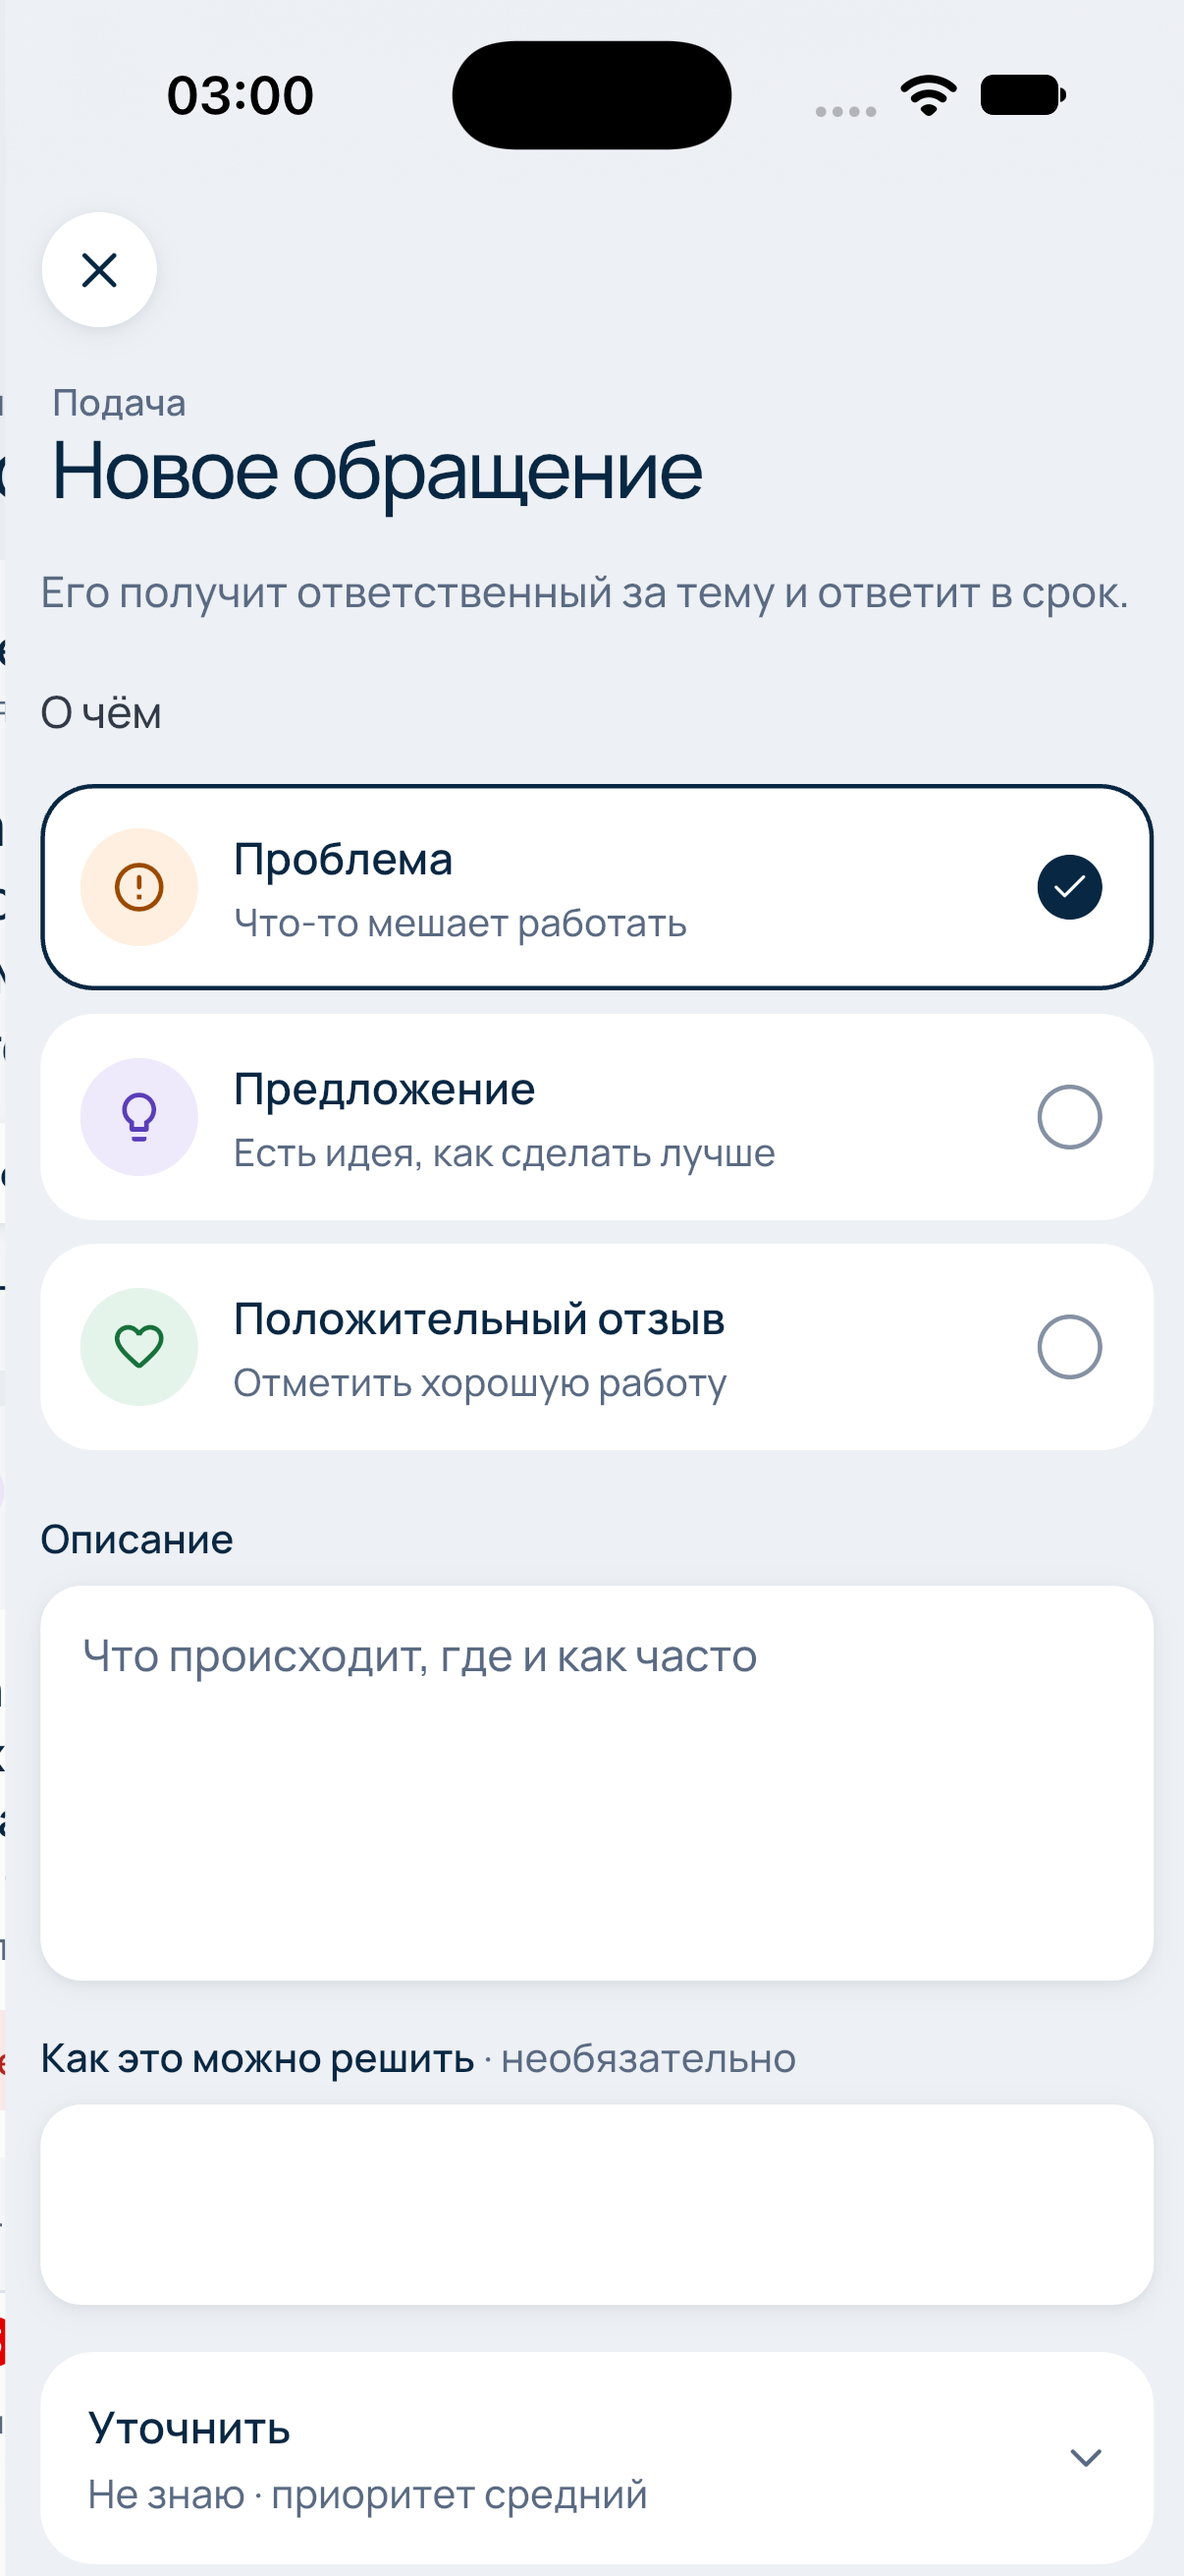
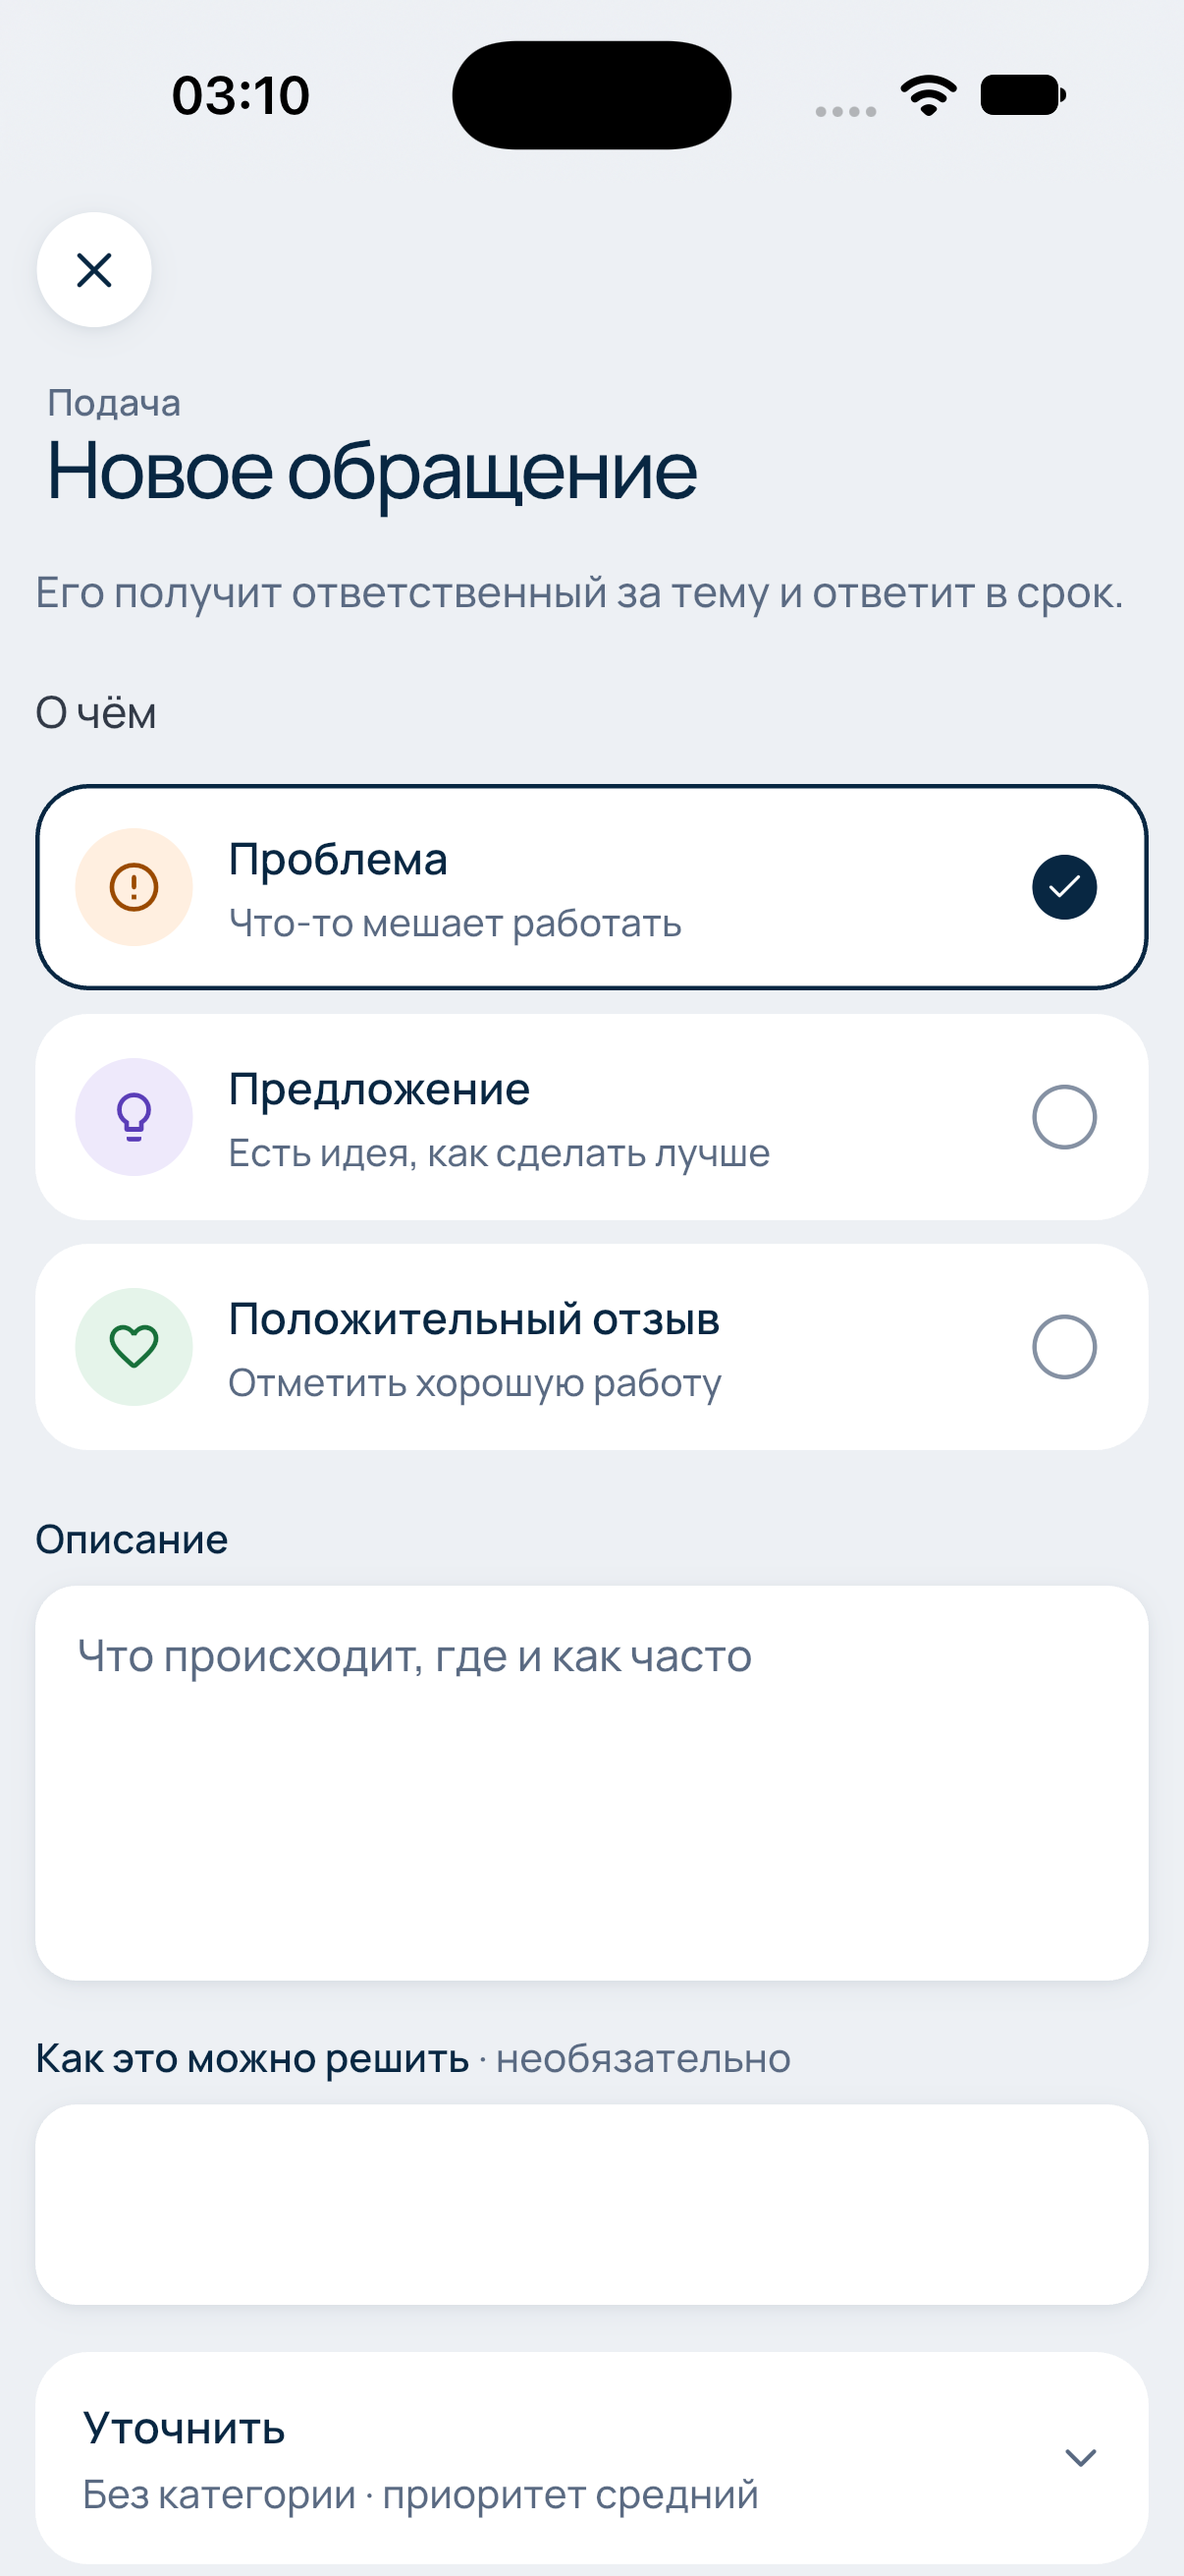
F-19: «Лента» карточками + замечания ревью к F-18 (#254)
* F-18: UX-проход — одно главное действие, лишнее под «⋯», значения по умолчанию свёрнуты

Подача: тип карточками, описание первым, категория и приоритет под «Уточнить», скрепка и «Отправить».
Мои/Входящие/Профиль/Настройки — общая стеклянная шапка; срок в строке только когда важен.
Черновики собраний и заявки на доступ: одна главная кнопка, остальное — «⋯» и свёрнутые поля.
Битрикс24 — в «Ещё» карточки; вкладки — сегментами. Правила: flutter/docs/ux-rules.md.

* F-19: «Лента» карточками; срок во «Входящих» только когда важен; проверка неактивной «Подтвердить»

---------

diff --git a/flutter/lib/ui/discussions/feed_screen.dart b/flutter/lib/ui/discussions/feed_screen.dart
@@ -1,12 +1,13 @@
 import 'package:flutter/material.dart';
+import 'package:lucide_icons_flutter/lucide_icons.dart';
 import 'package:modus_api/api.dart';
 
 import '../../api/app_error.dart';
 import '../../app.dart';
 import '../../theme/modus_theme.dart';
 import '../../format.dart';
-import '../appeals/duplicates_bitrix.dart' show plural;
 import 'discussion_screen.dart';
+import '../web/web_ui.dart';
 import '../home/role_switch.dart';
 
 /// Общая лента для всех: открытые обсуждения, реализованные улучшения, завершённые обсуждения
@@ -122,8 +123,9 @@ class DiscussionList extends StatelessWidget {
       },
       empty: status == DiscussionStatus.open ? 'Сейчас нет открытых обсуждений.' : 'Завершённых обсуждений пока нет.',
       builder: (context, items, reload) => ListView.separated(
+        padding: const EdgeInsets.fromLTRB(16, 4, 16, 120),
         itemCount: items.length,
-        separatorBuilder: (_, _) => const Divider(height: 1),
+        separatorBuilder: (_, _) => const SizedBox(height: 10),
         itemBuilder: (context, i) => DiscussionRow(
           discussion: items[i],
           onTap: () async {
@@ -147,39 +149,55 @@ class DiscussionRow extends StatelessWidget {
   Widget build(BuildContext context) {
     final d = discussion;
     final session = SessionScope.of(context);
-    final theme = Theme.of(context);
-    final muted = theme.textTheme.bodySmall?.copyWith(color: theme.colorScheme.onSurfaceVariant);
+    final c = ModusColors.of(context);
     final open = d.status == DiscussionStatus.open;
-    return InkWell(
-      key: Key('discussion-${d.id}'),
-      onTap: onTap,
-      child: Padding(
-        padding: const EdgeInsets.symmetric(horizontal: 16, vertical: 12),
-        child: Column(crossAxisAlignment: CrossAxisAlignment.start, children: [
-          Row(children: [
+    final muted = TextStyle(color: c.muted, fontSize: 13);
+    final waitsVote = open && d.canVote && d.myVote == null;
+    return Material(
+      color: c.card,
+      borderRadius: BorderRadius.circular(Web.rCard),
+      clipBehavior: Clip.antiAlias,
+      child: InkWell(
+        key: Key('discussion-${d.id}'),
+        onTap: onTap,
+        child: Padding(
+          padding: const EdgeInsets.fromLTRB(18, 16, 14, 16),
+          child: Row(children: [
             Expanded(
-              child: Text('${session.typeLabel(d.appeal.type)} · ${d.authorDisplay}',
-                  style: muted, overflow: TextOverflow.ellipsis),
+              child: Column(crossAxisAlignment: CrossAxisAlignment.start, children: [
+                Text(
+                  d.publicText,
+                  maxLines: 3,
+                  overflow: TextOverflow.ellipsis,
+                  style: TextStyle(color: c.heading, fontSize: 15.5, fontWeight: FontWeight.w600, height: 1.4),
+                ),
+                const SizedBox(height: 4),
+                Text(
+                  '${session.typeLabel(d.appeal.type)} · ${d.authorDisplay} · '
+                  '${open ? 'до ${formatDateTime(d.deadline)}' : 'завершено ${d.closedAt != null ? formatDate(d.closedAt!) : ''}'}',
+                  style: muted,
+                ),
+                const SizedBox(height: 10),
+                Wrap(spacing: 14, runSpacing: 6, crossAxisAlignment: WrapCrossAlignment.center, children: [
+                  if (waitsVote)
+                    Text('Ждёт вашего голоса',
+                        style: TextStyle(color: c.accent, fontSize: 13, fontWeight: FontWeight.w600)),
+                  _Count(icon: LucideIcons.thumbsUp, value: d.votesFor, label: 'За'),
+                  _Count(icon: LucideIcons.thumbsDown, value: d.votesAgainst, label: 'Против'),
+                  _Count(icon: LucideIcons.messageCircle, value: d.commentsCount, label: 'Комментарии'),
+                  if (d.myVote != null)
+                    Text('ваш голос: ${d.myVote == VoteValue.for_ ? 'за' : 'против'}', style: muted),
+                ]),
+                if (!open && d.outcome != null) ...[
+                  const SizedBox(height: 8),
+                  Text('Итог: ${d.outcome}', style: TextStyle(color: c.heading, fontSize: 13.5)),
+                ],
+              ]),
             ),
-            Text(
-              open ? 'до ${formatDateTime(d.deadline)}' : 'завершено ${d.closedAt != null ? formatDate(d.closedAt!) : ''}',
-              style: muted,
-            ),
+            const SizedBox(width: 8),
+            Icon(LucideIcons.chevronRight, size: 18, color: c.faint),
           ]),
-          const SizedBox(height: 4),
-          Text(d.publicText, maxLines: 3, overflow: TextOverflow.ellipsis),
-          const SizedBox(height: 8),
-          Wrap(spacing: 12, runSpacing: 4, crossAxisAlignment: WrapCrossAlignment.center, children: [
-            _Count(icon: Icons.thumb_up_alt_outlined, value: d.votesFor, label: 'За'),
-            _Count(icon: Icons.thumb_down_alt_outlined, value: d.votesAgainst, label: 'Против'),
-            Text('${d.commentsCount} ${plural(d.commentsCount, ('комментарий', 'комментария', 'комментариев'))}',
-                style: muted),
-            if (d.myVote != null)
-              Text('вы проголосовали «${d.myVote == VoteValue.for_ ? 'за' : 'против'}»', style: muted),
-          ]),
-          if (!open && d.outcome != null)
-            Padding(padding: const EdgeInsets.only(top: 4), child: Text('Итог: ${d.outcome}', style: muted)),
-        ]),
+        ),
       ),
     );
   }
@@ -196,9 +214,9 @@ class _Count extends StatelessWidget {
   Widget build(BuildContext context) => Semantics(
         label: '$label: $value',
         child: Row(mainAxisSize: MainAxisSize.min, children: [
-          Icon(icon, size: 16),
+          Icon(icon, size: 15, color: ModusColors.of(context).muted),
           const SizedBox(width: 4),
-          Text('$value'),
+          Text('$value', style: TextStyle(color: ModusColors.of(context).heading, fontSize: 13, fontWeight: FontWeight.w600)),
         ]),
       );
 }
@@ -216,8 +234,9 @@ class ImplementedList extends StatelessWidget {
       },
       empty: 'Реализованных улучшений пока нет.',
       builder: (context, items, _) => ListView.separated(
+        padding: const EdgeInsets.fromLTRB(16, 4, 16, 120),
         itemCount: items.length,
-        separatorBuilder: (_, _) => const Divider(height: 1),
+        separatorBuilder: (_, _) => const SizedBox(height: 10),
         itemBuilder: (context, i) => FeedRow(item: items[i]),
       ),
     );
@@ -236,9 +255,10 @@ class FeedRow extends StatelessWidget {
     final theme = Theme.of(context);
     final muted = theme.textTheme.bodySmall?.copyWith(color: theme.colorScheme.onSurfaceVariant);
     final label = theme.textTheme.labelMedium?.copyWith(color: theme.colorScheme.primary);
-    return Padding(
+    return Container(
       key: Key('feed-${f.appealId}'),
-      padding: const EdgeInsets.symmetric(horizontal: 16, vertical: 12),
+      padding: const EdgeInsets.all(18),
+      decoration: BoxDecoration(color: ModusColors.of(context).card, borderRadius: BorderRadius.circular(Web.rCard)),
       child: Column(crossAxisAlignment: CrossAxisAlignment.start, children: [
         Row(children: [
           Expanded(

diff --git a/flutter/test/meetings_test.dart b/flutter/test/meetings_test.dart
@@ -17,14 +17,14 @@ import 'package:modus_feedback/ui/meetings/meetings_screen.dart';
 import 'package:modus_feedback/ui/web/web_ui.dart';
 import 'fixtures.dart';
 
-Map<String, dynamic> draftJson({int id = 1, String status = 'pending', Map<String, dynamic>? appeal}) => {
+Map<String, dynamic> draftJson({int id = 1, String status = 'pending', Map<String, dynamic>? appeal, String summary = 'Документы теряются между отделами'}) => {
       'id': id,
       'meeting_id': 5,
       'status': status,
       'type': 'problem',
       'category': {'id': 1, 'name': 'Межотдельное взаимодействие'},
       'priority': 'medium',
-      'summary': 'Документы теряются между отделами',
+      'summary': summary,
       'text': 'На планёрке говорили, что акты сверки теряются при передаче.',
       'proposed_solution': null,
       'quote': 'опять акты сверки потерялись между нами и бухгалтерией',
@@ -185,6 +185,16 @@ void main() {
     expect(body['author_id'], 5);
     await tester.scrollUntilVisible(find.text('Автор: Ольга Петрова'), -200, scrollable: list);
     expect(find.text('Акты сверки теряются'), findsOneWidget);
+  });
+
+  testWidgets('черновик без сути подтвердить нельзя', (tester) async {
+    final server = FakeServer({
+      'GET /api/v1/meetings/5': (_) => json(meetingJson(drafts: [draftJson(summary: '')])),
+    });
+    final session = await signedIn(server);
+    await tester.pumpWidget(screen(session, const MeetingScreen(meetingId: 5)));
+    await tester.pumpAndSettle();
+    expect(tester.widget<WebButton>(find.byKey(const Key('draft-confirm-1'))).onPressed, isNull);
   });
 
   testWidgets('отбросить черновик; ошибка обработки показана', (tester) async {

diff --git a/flutter/test/discussions_test.dart b/flutter/test/discussions_test.dart
@@ -107,10 +107,10 @@ void main() {
 
     expect(server.last('GET', '/api/v1/discussions').url.queryParameters['status'], 'open');
     expect(find.text('Добавить обязательные поля в шаблон заявки на оборудование'), findsOneWidget);
-    expect(find.text('до 13 ноября 2026, 18:00'), findsOneWidget);
+    expect(find.textContaining('до 13 ноября 2026, 18:00'), findsOneWidget);
     expect(find.text('4'), findsOneWidget);
-    expect(find.text('2 комментария'), findsOneWidget);
-    expect(find.text('вы проголосовали «за»'), findsOneWidget);
+    expect(find.text('2'), findsWidgets, reason: 'число комментариев');
+    expect(find.text('ваш голос: за'), findsOneWidget);
 
     await tapVisible(tester, find.byKey(const Key('tab-implemented')));
     await tester.pumpAndSettle();

diff --git a/flutter/lib/ui/appeals/queue_screen.dart b/flutter/lib/ui/appeals/queue_screen.dart
@@ -335,9 +335,9 @@ class QueueRow extends StatelessWidget {
     final c = ModusColors.of(context);
     final overdue = item.dueState == DueState.overdue && item.status != AppealStatus.closed;
     final due = item.firstResponseDueAt;
+    // Правило 6: срок в строке — только когда он важен (просрочен или истекает).
     final waitingAnswer = due != null &&
-        item.dueState != DueState.answered &&
-        item.dueState != DueState.noDeadline &&
+        (item.dueState == DueState.overdue || item.dueState == DueState.dueSoon) &&
         item.status != AppealStatus.closed;
     return KeyedSubtree(
       key: Key('queue-${item.id}'),
